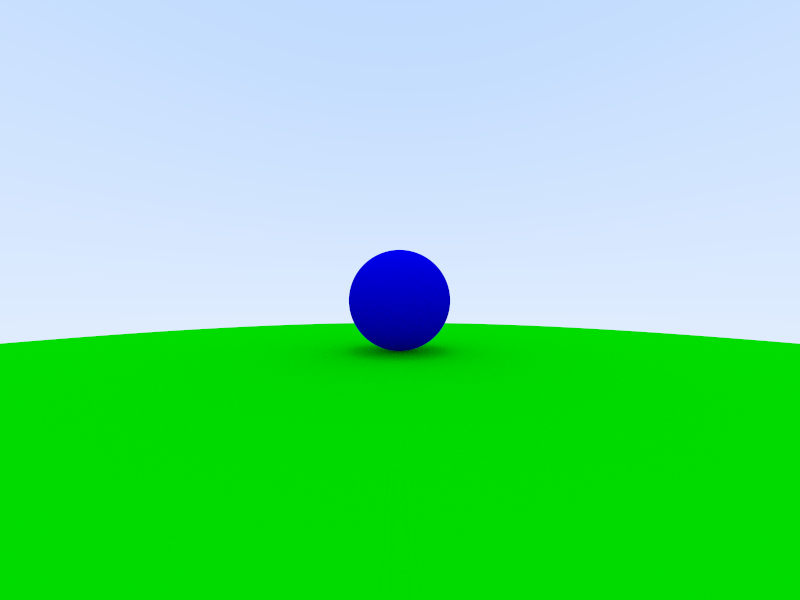
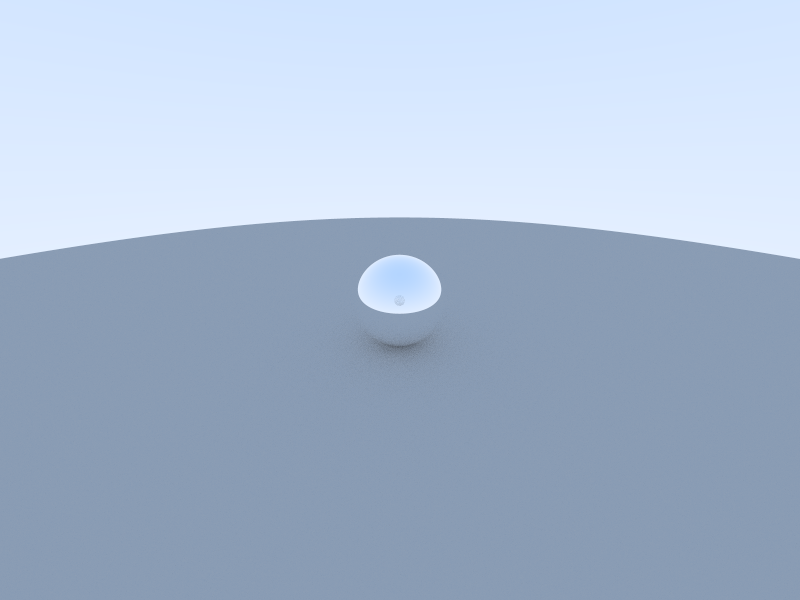
chore: update README

diff --git a/src/main.cpp b/src/main.cpp
@@ -6,63 +6,16 @@
 #include "SceneData.h"
 #include "Benchmarker.h"
 
-void DrawRandomScenes();
-
 int main() {
-
-    std::cout << "SceneData Size: " << sizeof(SceneData) << std::endl;
-
-	DrawRandomScenes();
-
-	return 0;
-}
-
-void DrawRandomScenes() {
 	Raytracer raytracer(
-		800, 600, glm::vec3(0.0f, 5.0f, 0.0f), glm::vec3(0.0f, 0.0f, 5.0f), 60.0f, 0.01f, 10.0f
+		800, 600, glm::vec3(0.0f, 1.4f, 0.0f), glm::vec3(0.0f, 0.0f, -3.0f), 90.0f, 0.0f, 3.0f
 	);
 
-	int numScenes = 1;
-	for (int i = 0; i < numScenes; i++) {
-		raytracer.World.Clear();
+	raytracer.World.Add(std::make_shared<Sphere>(glm::vec3(0.0f, 0.0f, -3.0f), 0.5f, std::make_shared<Dielectric>(0.12f)));
+	raytracer.World.Add(std::make_shared<Sphere>(glm::vec3(0.0f, -100.5f, -3.0f), 100.0f, std::make_shared<Lambertian>(glm::vec3(0.5f, 0.5f, 0.5f))));
 
-		auto groundMaterial = std::make_shared<Lambertian>(glm::vec3(0.5f, 0.5f, 0.5f));
-		raytracer.World.Add(std::make_shared<Sphere>(glm::vec3(0.0f, -1000.0f, 0.0f), 1000.0f, groundMaterial));
+	raytracer.DrawGPU();
+	raytracer.Canvas.Save("output.png");
 
-        for (int a = 0; a < 4; a++) {
-            for (int b = 0; b < 4; b++) {
-                auto choose_mat = randomFloatU();
-                glm::vec3 center(a * 2.0 - 3.0, 0.35, b * 2.0 + 4.0);
-
-                if ((center - glm::vec3(4.0f, 0.2f, 0.0f)).length() > 0.9f) {
-                    std::shared_ptr<Material> sphere_material;
-
-                    if (choose_mat < 0.6) {
-                        // diffuse
-                        auto albedo = randomColor();
-                        sphere_material = std::make_shared<Lambertian>(albedo);
-                        raytracer.World.Add(std::make_shared<Sphere>(center, 0.35f, sphere_material));
-                    }
-                    else if (choose_mat < 0.9) {
-                        // metal
-                        float r = randomFloatU() * 0.5f;
-                        auto albedo = glm::vec3(r + 0.5f);
-                        auto fuzz = randomFloatU() * 0.5f;
-                        sphere_material = std::make_shared<Metal>(albedo, fuzz);
-                        raytracer.World.Add(std::make_shared<Sphere>(center, 0.35f, sphere_material));
-                    }
-                    else {
-                        // glass
-                        sphere_material = std::make_shared<Dielectric>(1.5f);
-                        raytracer.World.Add(std::make_shared<Sphere>(center, 0.35f, sphere_material));
-                    }
-                }
-            }
-        }
-
-		Benchmarker::Start("Draw");
-		raytracer.DrawGPU();
-		Benchmarker::End("Draw");
-		raytracer.Canvas.Save("output.png");
-	}
+	return 0;
 }

diff --git a/README.md b/README.md
@@ -10,14 +10,14 @@ Here is an example of code using the Raytracer:
 ```cpp
 int main() {
 	Raytracer raytracer(
-		800, 600, glm::vec3(0.0f, 0.0f, 0.0f), glm::vec3(0.0f, 0.0f, -1.0f), 90.0f, 0.0f, 3.0f, 500
+		800, 600, glm::vec3(0.0f, 1.4f, 0.0f), glm::vec3(0.0f, 0.0f, -3.0f), 90.0f, 0.0f, 3.0f
 	);
 
-	raytracer.World.AddSphere(glm::vec3(0.0f, 0.0f, -3.0f), 0.5, std::make_shared<Lambertian>(glm::vec3(0.0f, 0.0f, 1.0f)));
-	raytracer.World.AddSphere(glm::vec3(0.0f, -100.5f, -3.0f), 100.0, std::make_shared<Lambertian>(glm::vec3(0.0f, 1.0f, 0.0f)));
+	raytracer.World.Add(std::make_shared<Sphere>(glm::vec3(0.0f, 0.0f, -3.0f), 0.5f, std::make_shared<Dielectric>(0.12f)));
+	raytracer.World.Add(std::make_shared<Sphere>(glm::vec3(0.0f, -100.5f, -3.0f), 100.0f, std::make_shared<Lambertian>(glm::vec3(0.5f, 0.5f, 0.5f))));
 
-	raytracer.Draw();
-	raytracer.Canvas.Save("Output.png");
+	raytracer.DrawGPU();
+	raytracer.Canvas.Save("output.png");
 
 	return 0;
 }
@@ -33,4 +33,6 @@ Along with the image it generates:
 Here are some images generated using the raytracer:
 
 ![enter image description here](https://raw.githubusercontent.com/fqhd/Raytracer/master/images/image1.png)
+![enter image description here](https://raw.githubusercontent.com/fqhd/Raytracer/master/images/image2.png)
+![enter image description here](https://raw.githubusercontent.com/fqhd/Raytracer/master/images/image3.png)
 
